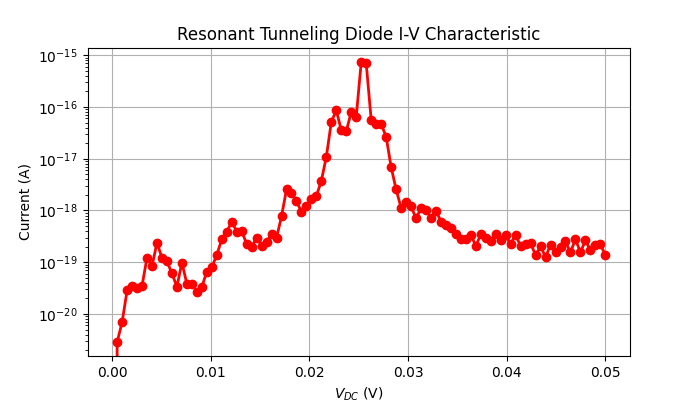
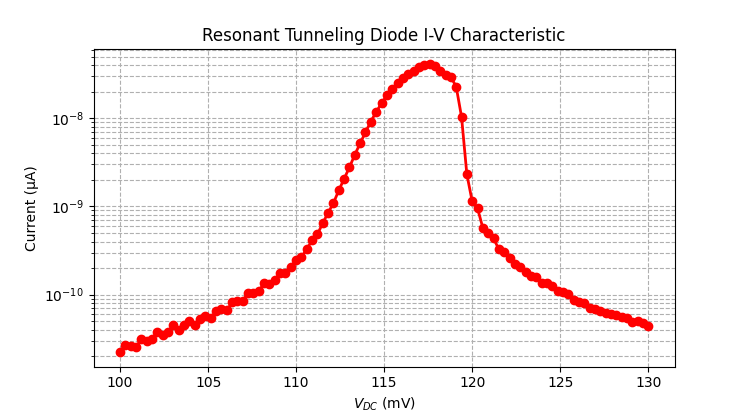
shizzle

Changed region(s): [[0.03, 0.06, 0.9, 1.0]]

diff --git a/Project 2/Project2_005.py b/Project 2/Project2_005.py
@@ -253,7 +253,7 @@ class TransmissionAnalyzer:
         E_max = E_center_eV + 3 * sigma_E_eV
         finite_well_res = TransmissionAnalyzer._finite_well_levels(cfg, 0, E_eV_plot.max())
 
-        plt.figure(figsize=(8, 4))
+        plt.figure(figsize=(8, 4),dpi=150)
         plt.plot(E_eV_plot, T, 'm-', lw=2, label="FDTD Simulation")
 
         # Dense analytical curve so narrow resonance peaks are smooth
@@ -581,9 +581,9 @@ class IVCharacteristic:
 if __name__ == '__main__':
 
     # --- Single T(E) spectrum ---
-    do_single = True
+    do_single = False
     if do_single:
-        kw = dict(n_y=1, n_z=1, V0=0.6, V_DC=0.0, T_total=3000e-15, E_target=0.35, frame_skip=500)
+        kw = dict(n_y=1, n_z=1, V0=0.6, V_DC=0.0, T_total=10000e-15, E_target=0.55, frame_skip=500)
         res_bar  = SimulationRunner.execute(**kw)
         res_free = SimulationRunner.execute(**{**kw, 'V0': 0.0}, dt=res_bar['config'].dt)
         TransmissionAnalyzer.plot_transmission(res_bar, res_free)
@@ -592,8 +592,8 @@ if __name__ == '__main__':
     # --- I-V curve (NDR) ---
     do_IV_curve = False
     if do_IV_curve:
-        voltages = np.linspace(0.1, 0.12, 50)
-        IVCharacteristic.plot_IV(voltages, {"V0": 0.6, "T_total": 5000e-15, "E_target": 0.02234})
+        voltages = np.linspace(0.1, 0.13, 100)
+        IVCharacteristic.plot_IV(voltages, {"V0": 0.6, "T_total": 10e-12, "E_target": 0.02234})
 
     # =========================================================================
     # === PARAMETER SWEEPS ===
@@ -615,19 +615,19 @@ if __name__ == '__main__':
     if sweep_V0:
         base = dict(n_y=1, n_z=1, V_DC=0.0,
                     L_barriers=[10e-9, 10e-9], L_wells=[30e-9],
-                    T_total=1000e-15, E_target=0.35)
+                    T_total=5000e-15, E_target=0.35)
         sweep_transmission = [run_pair(f"V0 = {v} eV", {**base, "V0": v})
                               for v in [0.2, 0.4, 0.6]]
         TransmissionAnalyzer.plot_transmission_sweep(sweep_transmission, title="Sweep: Barrier Height V0")
         
-        iv_voltages = np.linspace(0.1, 0.12, 50)
+        iv_voltages = np.linspace(0.08, 0.13, 100)
         sweep_IV = [
-            (f"V0 = {v} eV", IVCharacteristic.compute_IV_curve(iv_voltages, {**base, "V0": v, "E_target": 0.022}))
+            (f"V0 = {v} eV", IVCharacteristic.compute_IV_curve(iv_voltages, {**base, "V0": v, "E_target": 0.02234}))
             for v in [0.2, 0.4, 0.6]
         ]
         IVCharacteristic.plot_IV_sweep(iv_voltages, sweep_IV, title="IV Sweep: Barrier Height V0")
 
-    sweep_T_total = True
+    sweep_T_total = False
     if sweep_T_total:
         base = dict(n_y=1, n_z=1, V_DC=0.0,
                     L_barriers=[10e-9, 10e-9], L_wells=[30e-9],
@@ -638,7 +638,7 @@ if __name__ == '__main__':
         
         iv_voltages = np.linspace(0.11, 0.13, 50)
         sweep_IV = [
-            (f"T_total = {v}", IVCharacteristic.compute_IV_curve(iv_voltages, {**base, "T_total": v, "E_target": 0.022}))
+            (f"T_total = {v}", IVCharacteristic.compute_IV_curve(iv_voltages, {**base, "T_total": v, "E_target": 0.02234}))
             for v in [500e-15,1000e-15,2000e-15]
         ]
         IVCharacteristic.plot_IV_sweep(iv_voltages, sweep_IV, title="IV Sweep: Total Simulation Time T_total")
@@ -648,18 +648,24 @@ if __name__ == '__main__':
     if sweep_well:
         base = dict(n_y=1, n_z=1, V0=0.6, V_DC=0.0,
                     L_barriers=[10e-9, 10e-9],
-                    T_total=2000e-15, E_target=0.35)
-        sweep = [run_pair(f"Lw = {int(Lw*1e9)} nm", {**base, "L_wells": [Lw]})
-                 for Lw in [15e-9, 30e-9, 50e-9]]
-        TransmissionAnalyzer.plot_transmission_sweep(sweep, title="Sweep: Well Length")
+                    T_total=5000e-15, E_target=0.35)
+        # sweep = [run_pair(f"Lw = {int(Lw*1e9)} nm", {**base, "L_wells": [Lw], "E_target": 0.02234})
+                #  for Lw in [15e-9, 30e-9, 45e-9]]
+        # TransmissionAnalyzer.plot_transmission_sweep(sweep, title="Sweep: Well Length")
+        iv_voltages = np.linspace(0.07, 0.15, 100)
+        sweep_IV = [
+            (f"Lw = {int(Lw*1e9)} nm", IVCharacteristic.compute_IV_curve(iv_voltages, {**base, "L_wells": [Lw], "E_target": 0.02234}))
+            for Lw in [15e-9, 30e-9, 45e-9]
+        ]
+        IVCharacteristic.plot_IV_sweep(iv_voltages, sweep_IV, title="IV Sweep: Well Length")
 
     # --- Sweep L_barriers (barrier length, same for both barriers) ---
     sweep_barrier = False
     if sweep_barrier:
         base = dict(n_y=1, n_z=1, V0=0.6, V_DC=0.0,
                     L_wells=[30e-9],
-                    T_total=2000e-15, E_target=0.35)
-        sweep = [run_pair(f"Lb = {int(Lb*1e9)} nm", {**base, "L_barriers": [Lb, Lb]})
+                    T_total=5000e-15, E_target=0.35)
+        sweep = [run_pair(f"Lb = {int(Lb*1e9)} nm", {**base, "L_barriers": [Lb, Lb], "E_target": 0.02234})
                  for Lb in [5e-9, 10e-9, 20e-9]]
         TransmissionAnalyzer.plot_transmission_sweep(sweep, title="Sweep: Barrier Length")
 
@@ -692,3 +698,18 @@ if __name__ == '__main__':
         sweep = [run_pair(f"{p}×E_t PML", {**base, "pml_prefactor": p})
                  for p in [1, 2, 4]]
         TransmissionAnalyzer.plot_transmission_sweep(sweep, title="Sweep: PML Prefactor (W_max/E_target)")
+        
+    sweep_three_barriers = True
+    if sweep_three_barriers:
+        base = dict(n_y=1, n_z=1, V0=0.6, V_DC=0.0,
+                    L_barriers=[10e-9, 10e-9, 10e-9],
+                    T_total=10000e-15, E_target=0.35)
+        # sweep = [run_pair(f"3 Barriers Structures", {**base, "L_wells": Lw})
+        #          for Lw in [[10e-9,20e-9], [15e-9,15e-9], [20e-9,10e-9]]]
+        # TransmissionAnalyzer.plot_transmission_sweep(sweep, title="Sweep: Three Barrier Structure")
+        iv_voltages = np.linspace(0.01, 2, 20)
+        sweep_IV = [
+            (f"3 Barriers, Lw={int(Lw[0]*1e9)}/{int(Lw[1]*1e9)} nm", IVCharacteristic.compute_IV_curve(iv_voltages, {**base, "L_wells": Lw, "E_target": 0.02234}))
+            for Lw in [[10e-9,20e-9], [15e-9,15e-9], [20e-9,10e-9]]
+        ]
+        IVCharacteristic.plot_IV_sweep(iv_voltages, sweep_IV, title="IV Sweep: Three Barrier Structure")    
